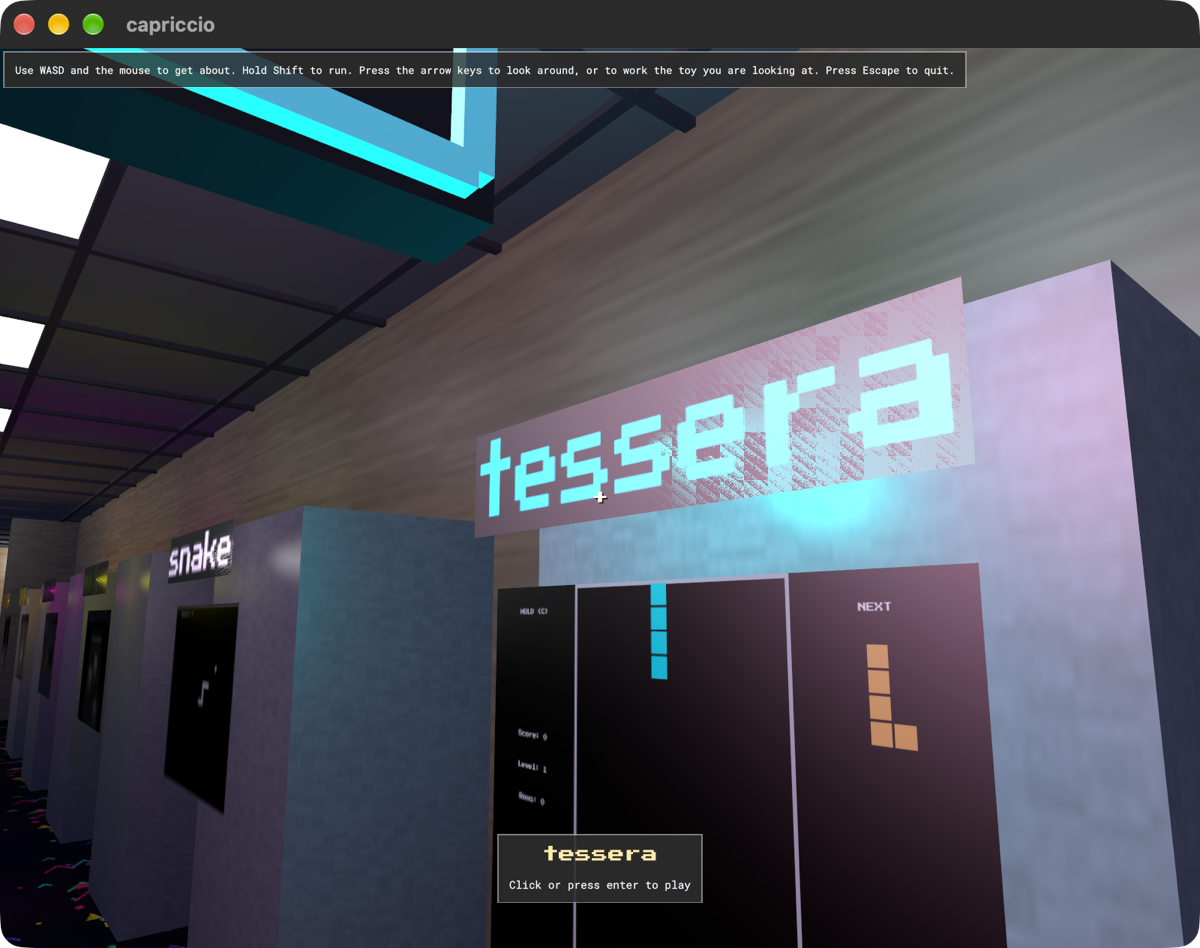
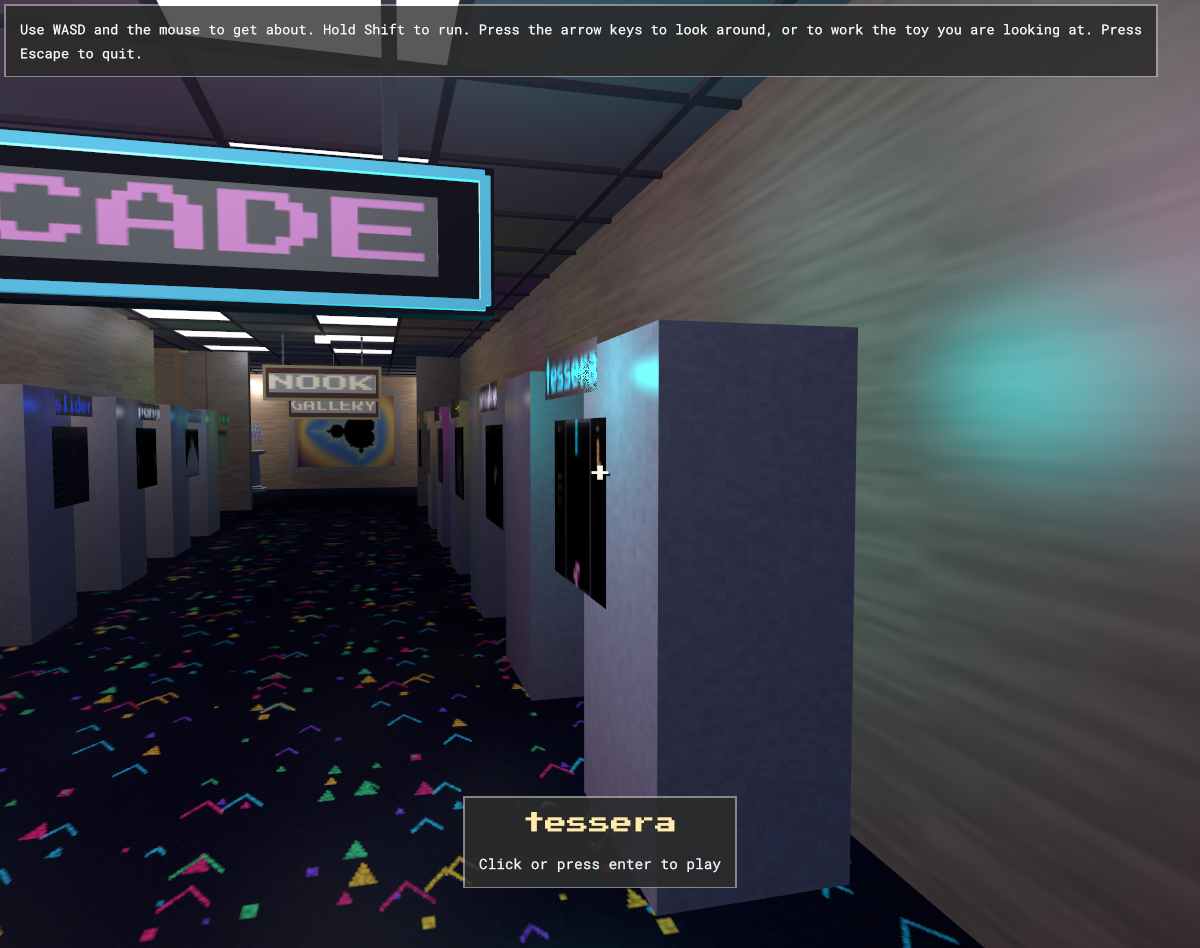
Stand the staged shot at tessera by name, since row.get(1) was tessera when the picture was composed and snake by the night it was next rendered

diff --git a/src/main.rs b/src/main.rs
@@ -687,9 +687,10 @@ fn staged_as() -> Option<String> {
 /// room that changed under them left three pictures of a building that no
 /// longer existed, published, with every check green.
 ///
-/// The hall's pose is not in here. It is a pose kept for its reasoning and
-/// there is no file on the site that holds it, and a shot with nowhere to go
-/// is not a shot.
+/// The hall's own pose is in here now. It sat in this file for its reasoning
+/// with no file on the site to go in, which is a shot with nowhere to go, and
+/// spec 0121 gave it `media/screenshot.png` when the deep's four pictures
+/// left.
 fn shots() -> Vec<(String, String)> {
     // Every one is named, the staged shot included, and that is not tidiness.
     // The photographer reads these lines with the tab as its separator, and a
@@ -732,6 +733,19 @@ pub const POSED_OUT: f32 = 1.2;
 pub const POSED_PAST: f32 = 1.5;
 const POSED_PITCH: f32 = -0.05;
 
+/// Which game the staged shot stands at.
+///
+/// **Named, where the camera is still worked out from where it stands.** It
+/// was `row.get(1)`, the second cabinet in the row and whichever game that
+/// happened to be. That was tessera when this picture was composed and snake
+/// by the night it was next rendered, because games went in between and the
+/// row moved under the index. What a written-down bearing does to a picture
+/// when the rows move, an index does to its subject.
+///
+/// The camera is still derived rather than written, which is the whole of the
+/// argument above: moving the rows moves the shot and never stales it.
+pub const POSED_AT: &str = "tessera";
+
 /// Where the camera stands for a staged shot, and which way it looks.
 ///
 /// **Worked out from a cabinet and not written down**, which this file has
@@ -752,7 +766,12 @@ fn posed(room: &Room) -> (Vec3, f32) {
 
     row.sort_by(|one, other| other.at.z.total_cmp(&one.at.z));
 
-    let Some(stood) = row.get(1).or_else(|| row.first()) else {
+    let Some(stood) = row
+        .iter()
+        .find(|stood| stood.cabinet.name == POSED_AT)
+        .or_else(|| row.get(1))
+        .or_else(|| row.first())
+    else {
         return (Vec3::new(0.8, 0.0, 6.2), 0.25);
     };
 
